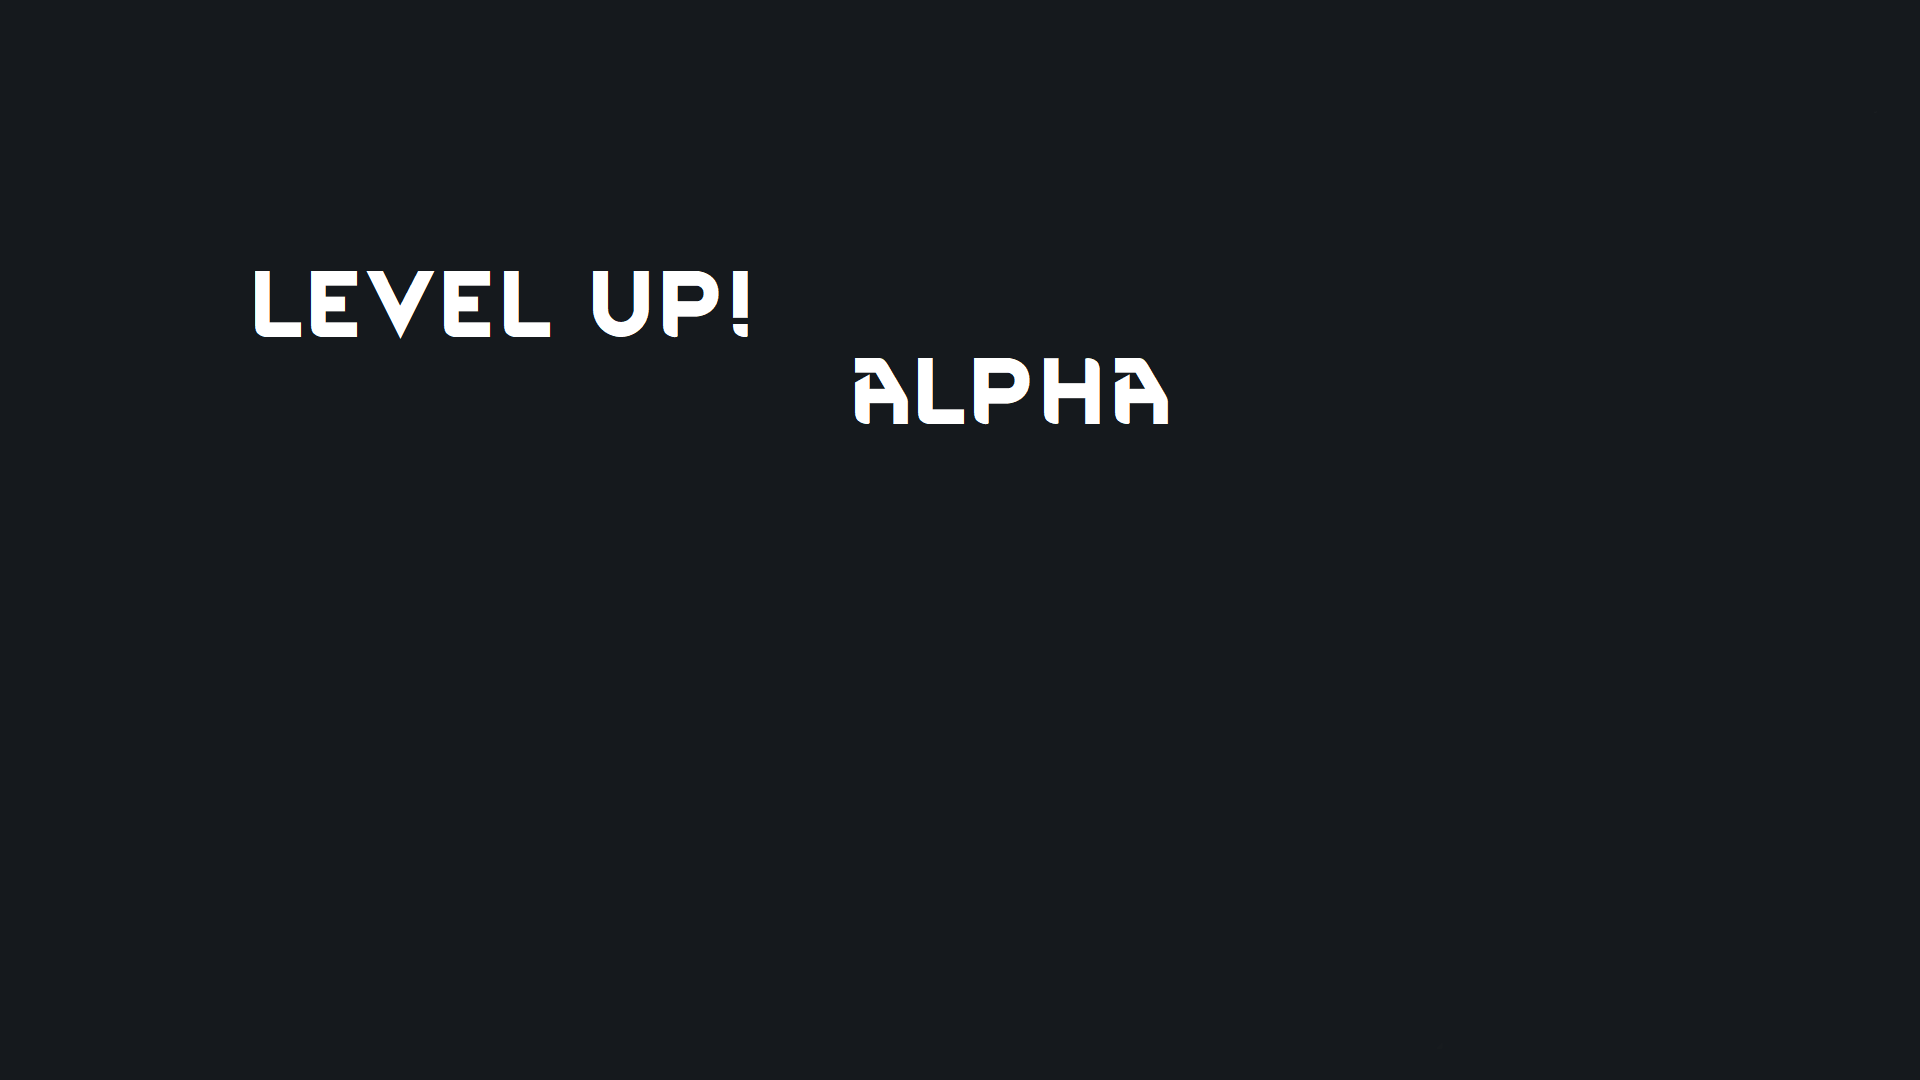
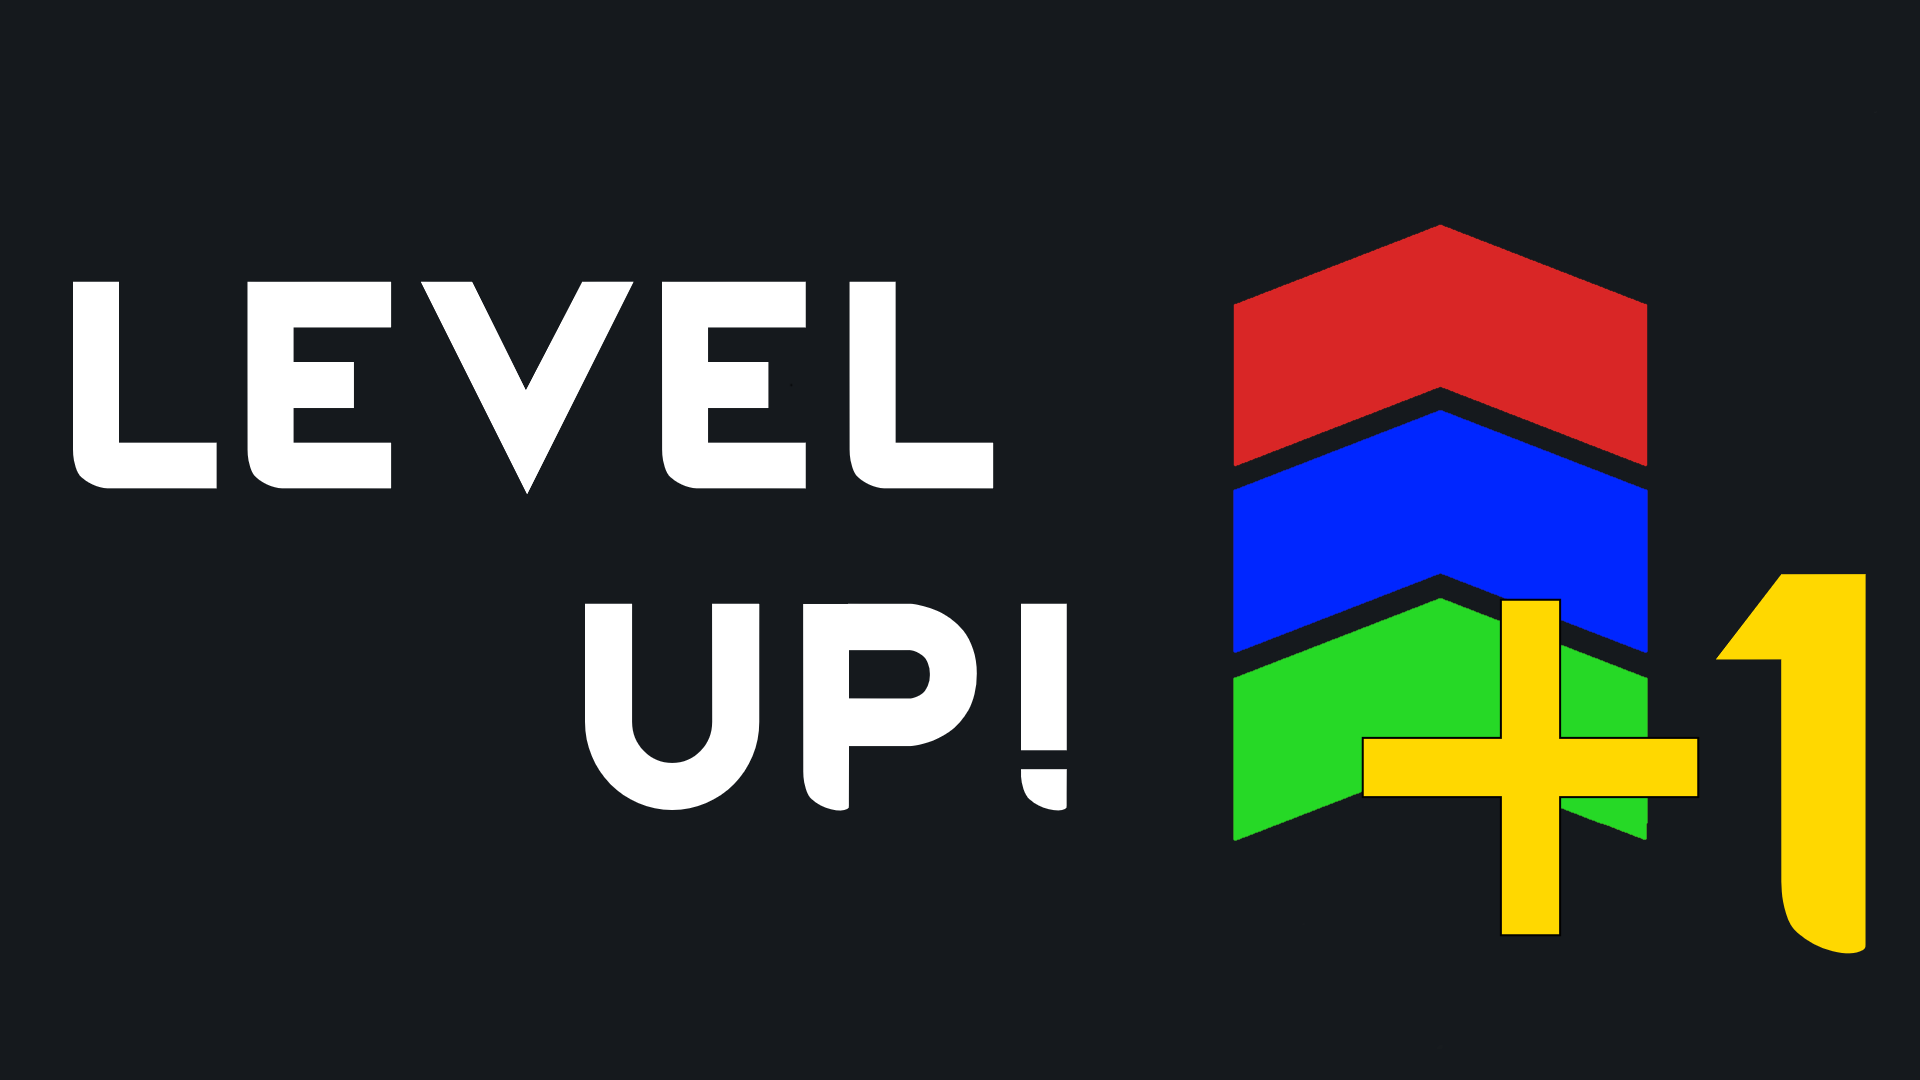
Added message on skill level up.

Changed region(s): [[0.0312, 0.2139, 0.9688, 0.8861], [0.2812, 0.55, 0.5625, 0.7639]]

diff --git a/Source/LevelUp.cs b/Source/LevelUp.cs
@@ -1,0 +1,80 @@
+using Harmony;
+using RimWorld;
+using System.Collections.Generic;
+using System.Linq;
+using UnityEngine;
+using Verse;
+using Verse.Sound;
+
+namespace LevelUp
+{
+    class LevelUp
+    {
+        LevelUp(Pawn pawn, SkillRecord skillRecord)
+        {
+            Pawn = pawn;
+            SkillRecord = skillRecord;
+        }
+
+        Pawn Pawn { get; set; }
+        SkillRecord SkillRecord { get; set; }
+        static List<LevelUp> AllLevelUps { get; } = new List<LevelUp>();
+
+        // Puts message on screen for this level up.
+        void Notify_LevelUp()
+        {
+            Color color = Color.red;
+            string pawn = Pawn.Label.Colored(color);
+            string skill = SkillRecord.def.skillLabel;
+            int level = SkillRecord.levelInt;
+            string label = "LevelUpLabel".Translate(pawn, level, skill);
+            LookTargets lookTargets = new LookTargets(Pawn);
+            Messages.Message(label, lookTargets, MessageTypeDefOf.SilentInput);
+            // Temporary sound.
+            SoundDef sound = SoundDefOf.EnergyShield_AbsorbDamage;
+            sound.PlayOneShot(SoundInfo.InMap(new TargetInfo(Pawn)));
+        }
+
+        // Checks for new level ups for drawing on screen.
+        internal static void LevelUpOnGUI()
+        {
+            if (AllLevelUps.NullOrEmpty())
+                return;
+
+            LevelUp levelUp = AllLevelUps.First();
+            levelUp.Notify_LevelUp();
+            AllLevelUps.Remove(levelUp);
+        }
+
+        internal static void Clear()
+        {
+            AllLevelUps.Clear();
+        }
+
+        // Harmony.
+        // Patching two methods with the same pre- and postfixes, as both can make a skill increase in level.
+        internal static void ApplyPatches(HarmonyInstance harmony)
+        {
+            var original1 = AccessTools.Method(typeof(SkillRecord), "Learn", new[] { typeof(float), typeof(bool) });
+            var original2 = AccessTools.Method(typeof(SkillRecord), "set_Level");
+            var prefix = new HarmonyMethod(AccessTools.Method(typeof(LevelUp), "Prefix"));
+            var postfix = new HarmonyMethod(AccessTools.Method(typeof(LevelUp), "Postfix"));
+
+            harmony.Patch(original1, prefix, postfix);
+            harmony.Patch(original2, prefix, postfix);
+        }
+
+        // Prefix passes the value of skill level before level increase.
+        static void Prefix(out int __state, int ___levelInt)
+        {
+            __state = ___levelInt;
+        }
+
+        // If original method increased skill level, add it to queue for level up notifications.
+        static void Postfix(int __state, int ___levelInt, Pawn ___pawn, SkillRecord __instance)
+        {
+            if (__state < ___levelInt)
+                AllLevelUps.Add(new LevelUp(___pawn, __instance));
+        }
+    }
+}

diff --git a/Source/Controller.cs b/Source/Controller.cs
@@ -1,21 +1,26 @@
 using Harmony;
-using System.Linq;
-using System.Reflection;
-using UnityEngine;
 using Verse;
 
 namespace LevelUp
 {
-    [StaticConstructorOnStartup]
-    class Controller
+    class Controller : GameComponent
     {
-        internal static Texture2D tex = ContentFinder<Texture2D>.Get("UI/Widgets/FillChangeArrowRight");
-
-        static Controller()
+        public Controller(Game game)
         {
-            // Do patches
+            // Initialize harmony patches.
             HarmonyInstance harmony = HarmonyInstance.Create("LevelUp");
-            harmony.PatchAll(Assembly.GetExecutingAssembly());
+            LevelUp.ApplyPatches(harmony);
+        }
+        public override void FinalizeInit()
+        {
+            base.FinalizeInit();
+            LevelUp.Clear();
+        }
+
+        public override void GameComponentOnGUI()
+        {
+            base.GameComponentOnGUI();
+            LevelUp.LevelUpOnGUI();
         }
     }
 }

diff --git a/Source/Extensions.cs b/Source/Extensions.cs
@@ -1,15 +1,24 @@
-namespace LevelUp
+using UnityEngine;
+
+namespace LevelUp
 {
     internal static class Extensions
     {
-        public static string Italic(this string self)
+        internal static string Italic(this string self)
         {
             return "<i>" + self + "</i>";
         }
 
-        public static string Bold(this string self)
+        internal static string Bold(this string self)
         {
             return "<b>" + self + "</b>";
+        }
+
+        internal static string Colored(this string self, Color inColor)
+        {
+            Color32 color = inColor;
+            string hexColor = color.r.ToString("X2") + color.g.ToString("X2") + color.b.ToString("X2");
+            return "<b><color=#" + hexColor + ">" + self + "</color></b>";
         }
     }
 }
